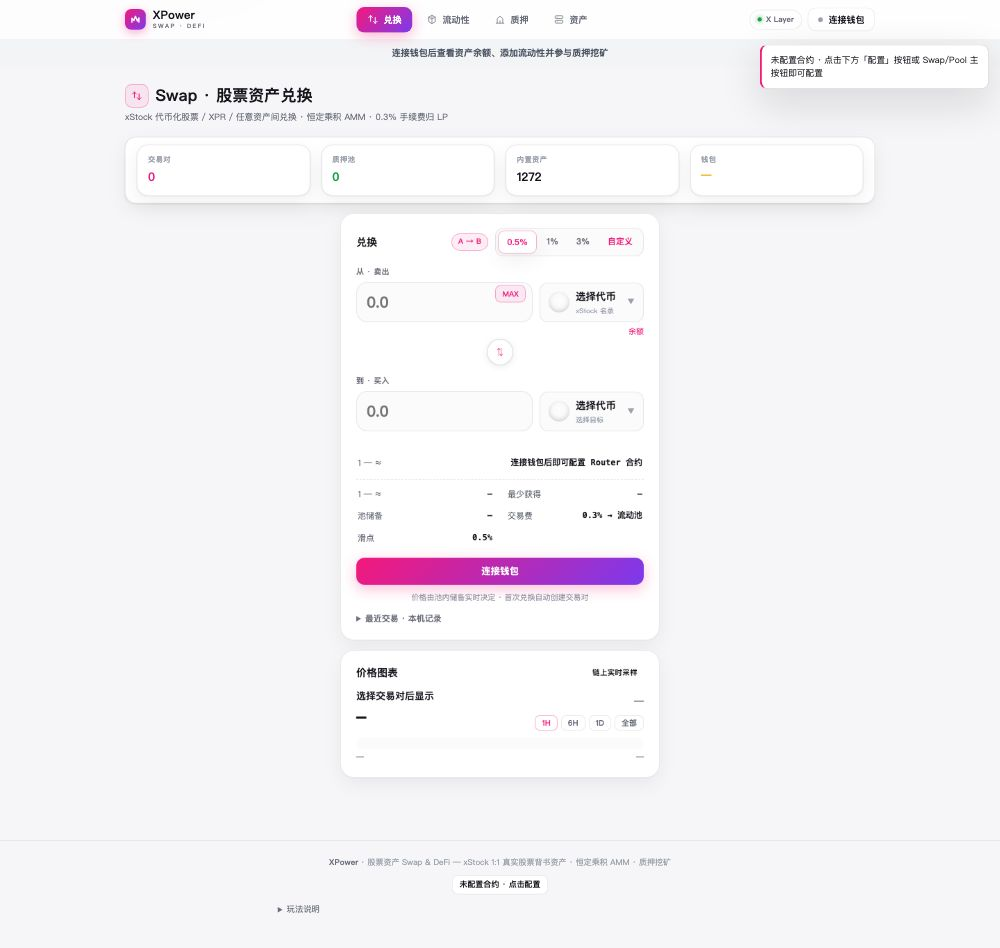
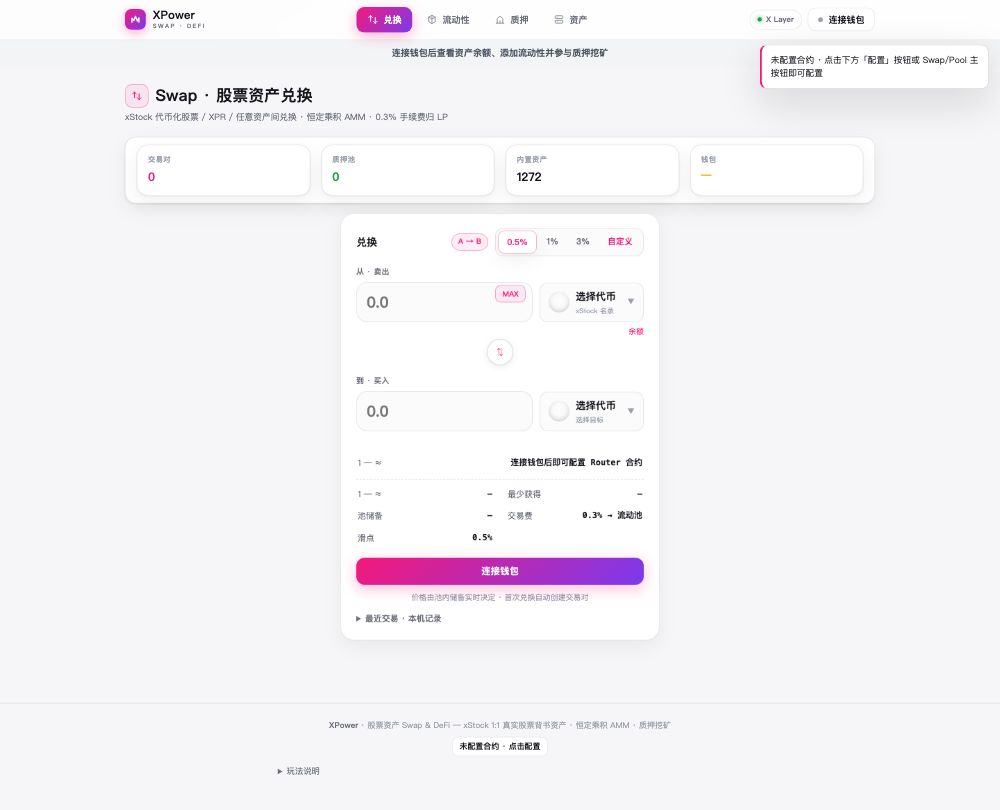
移除价格图表卡片及全部采样/渲染代码

diff --git a/XPower Swap DApp.html b/XPower Swap DApp.html
@@ -315,28 +315,7 @@ input[type=text]:focus,input[type=number]:focus,select:focus,textarea:focus{outl
         <div style="text-align:center;font-size:11px;color:var(--faint);margin-top:10px">价格由池内储备实时决定 · 首次兑换自动创建交易对</div>
         <details style="margin-top:12px;font-size:12px"><summary style="cursor:pointer;color:var(--dim);font-weight:700;user-select:none">最近交易 · 本机记录</summary><div id="txHist" style="margin-top:6px"></div></details>
       </div>
-      <div class="swap-card card-lift" style="margin-top:14px">
-        <div class="swap-head"><b>价格图表</b><span class="badge">链上实时采样</span></div>
-        <div style="display:flex;align-items:flex-end;justify-content:space-between;gap:10px;margin-top:10px;flex-wrap:wrap">
-          <div>
-            <div id="chartPair" style="font-size:14px;font-weight:800">选择交易对后显示</div>
-            <div id="chartPrice" style="font-size:24px;font-weight:800;font-family:var(--mono);letter-spacing:-.5px">—</div>
-          </div>
-          <div style="text-align:right">
-            <div id="chartChg" style="font-size:14px;font-weight:800;color:var(--dim)">—</div>
-            <div id="chartRange" style="display:flex;gap:5px;margin-top:8px">
-              <button style="padding:2px 9px;font-size:11px;border-radius:7px;border:1px solid var(--acc-line);background:var(--card);cursor:pointer;font-weight:700;color:var(--acc)" onclick="setChartRange('1H')">1H</button>
-              <button style="padding:2px 9px;font-size:11px;border-radius:7px;border:1px solid var(--line);background:var(--card);cursor:pointer;font-weight:700;color:var(--dim)" onclick="setChartRange('6H')">6H</button>
-              <button style="padding:2px 9px;font-size:11px;border-radius:7px;border:1px solid var(--line);background:var(--card);cursor:pointer;font-weight:700;color:var(--dim)" onclick="setChartRange('1D')">1D</button>
-              <button style="padding:2px 9px;font-size:11px;border-radius:7px;border:1px solid var(--line);background:var(--card);cursor:pointer;font-weight:700;color:var(--dim)" onclick="setChartRange('ALL')">全部</button>
-            </div>
-          </div>
-        </div>
-        <div id="chartSvg" style="margin-top:10px;border-radius:12px;background:var(--card2);padding:8px"></div>
-        <div style="display:flex;justify-content:space-between;font-size:11px;color:var(--dim);margin-top:4px"><span id="chartLow">—</span><span id="chartHi">—</span></div>
-      </div>
-    </div>
-  </section>
+      </section>
 
   <!-- ===== Pool ===== -->
   <section class="view" id="view-pool">
@@ -1548,88 +1527,6 @@ async function deployAll(){
   }
 }
 
-/* ============ 价格图表 · 链上实时采样 ============ */
-let CHART_RANGE="1H";
-const PH_KEY=STORAGE+"ph";
-function phLoad(){try{return JSON.parse(localStorage.getItem(PH_KEY)||"{}");}catch(e){return{};}}
-function phSave(h){try{localStorage.setItem(PH_KEY,JSON.stringify(h));}catch(e){}}
-async function samplePrice(){
-  if(!sA||!sB||needCfg()||!cfg.factory)return;
-  try{
-    const hist=phLoad();
-    const key=[tokAddr(sA),tokAddr(sB)].map(x=>x.toLowerCase()).sort().join("|");
-    const now=Date.now();
-    let price=null;
-    await withRPC(async p=>{
-      const f=new ethers.Contract(cfg.factory,FACTORY_ABI,p);
-      const pair=await f.getPair(tokAddr(sA),tokAddr(sB));
-      if(pair===ethers.ZeroAddress)return;
-      const pc=new ethers.Contract(pair,PAIR_ABI,p);
-      const[t0,r]=await Promise.all([pc.token0(),pc.getReserves()]);
-      const pa=Number(r[0])/Number(r[1])*10**(sB.dec-sA.dec);
-      const pb=Number(r[1])/Number(r[0])*10**(sA.dec-sB.dec);
-      price=t0===tokAddr(sA).toLowerCase()?pb:pa;
-    });
-    if(price==null||!isFinite(price)||price<=0)return;
-    const arr=hist[key]||[];
-    arr.push([now,price]);
-    const cut=now-30*864e5;
-    hist[key]=arr.filter(x=>x[0]>=cut&&x[0]<=now).slice(-2000);
-    phSave(hist);
-    renderPriceChart();
-  }catch(e){}
-}
-function setChartRange(r){
-  CHART_RANGE=r;
-  document.querySelectorAll("#chartRange button").forEach(b=>{const on=b.textContent===r;b.style.color=on?"var(--acc)":"var(--dim)";b.style.borderColor=on?"var(--acc-line)":"var(--line)";});
-  renderPriceChart();
-}
-function renderPriceChart(){
-  const pairEl=$("chartPair"),pxEl=$("chartPrice"),chgEl=$("chartChg"),svgEl=$("chartSvg");
-  if(!pairEl||!svgEl)return;
-  if(!sA||!sB){pairEl.textContent="选择交易对后显示";pxEl.textContent="—";chgEl.textContent="—";svgEl.innerHTML="";return;}
-  pairEl.textContent=sA.sym+" / "+sB.sym;
-  const hist=phLoad();
-  const key=[tokAddr(sA),tokAddr(sB)].map(x=>x.toLowerCase()).sort().join("|");
-  const arr=hist[key]||[];
-  const now=Date.now();
-  const ranges={"1H":36e5,"6H":216e5,"1D":864e5,"ALL":30*864e5};
-  const pts=arr.filter(x=>now-x[0]<=(ranges[CHART_RANGE]||36e5));
-  if(pts.length<2){
-    pxEl.textContent=pts.length?fmtPrice(pts[pts.length-1][1]):"—";
-    chgEl.textContent=pts.length?"数据积累中":"等待采样…";
-    svgEl.innerHTML=`<div style="padding:36px;text-align:center;color:var(--dim);font-size:12px;line-height:1.8">等待链上采样 · 池子产生交易后自动绘制走势<br>（本机记录 · 不伪造历史行情）</div>`;
-    $("chartLow").textContent="—";$("chartHi").textContent="—";
-    return;
-  }
-  const vals=pts.map(x=>x[1]);
-  const cur=vals[vals.length-1],first=vals[0];
-  const lo=Math.min(...vals),hi=Math.max(...vals);
-  pxEl.textContent=fmtPrice(cur);
-  const chg=(cur-first)/first*100;
-  chgEl.textContent=(chg>=0?"+":"")+chg.toFixed(2)+"%";
-  chgEl.style.color=chg>=0?"var(--ok)":"var(--err)";
-  $("chartLow").textContent="低 "+fmtPrice(lo);$("chartHi").textContent="高 "+fmtPrice(hi);
-  const W=640,H=220,pad=8;
-  const rng=hi-lo||1;
-  const step=Math.max(1,Math.floor(pts.length/140));
-  const sm=pts.filter((_,i)=>i%step===0);
-  const xs=i=>pad+(W-2*pad)*i/(sm.length-1);
-  const ys=v=>H-pad-(H-2*pad)*(v-lo)/rng;
-  let path="",area="";
-  sm.forEach((pt,i)=>{const x=xs(i).toFixed(1),y=ys(pt[1]).toFixed(1);path+=(i?"L":"M")+x+" "+y+" ";area+=(i?"L":"M")+x+" "+y+" ";});
-  const up=cur>=first,col=up?"#22c55e":"#ef4444";
-  const gid="pg"+(Math.random()*1e6|0);
-  svgEl.innerHTML=`<svg viewBox="0 0 ${W} ${H}" style="width:100%;display:block">
-    <defs><linearGradient id="${gid}" x1="0" y1="0" x2="0" y2="1">
-      <stop offset="0%" stop-color="${col}" stop-opacity="0.26"/><stop offset="100%" stop-color="${col}" stop-opacity="0.02"/>
-    </linearGradient></defs>
-    <path d="${area}L ${W-pad} ${H-pad} L ${pad} ${H-pad} Z" fill="url(#${gid})"/>
-    <path d="${path}" fill="none" stroke="${col}" stroke-width="2" stroke-linecap="round" stroke-linejoin="round"/>
-    <line x1="${pad}" y1="${ys(cur).toFixed(1)}" x2="${W-pad}" y2="${ys(cur).toFixed(1)}" stroke="${col}" stroke-width="1" stroke-dasharray="4 4" opacity="0.5"/>
-  </svg>`;
-}
-
 async function doSwap(){
   if(qstate.running){toast("任务进行中，请稍候","err");return;}
   if(!walletAddr){connectWallet();return;}
@@ -2350,8 +2247,7 @@ $("nav").innerHTML=[["swap",'<svg width="16" height="16" viewBox="0 0 24 24" fil
   window.addEventListener("hashchange",route);
   updateStatusBar();
   if(needCfg())toast("未配置合约 · 点击下方「配置」按钮或 Swap/Pool 主按钮即可配置","warn");
-  setTimeout(samplePrice,1500);
-  setInterval(()=>{if(curView==="swap")samplePrice();},20000);
+
 });
 </script>
 </body>
